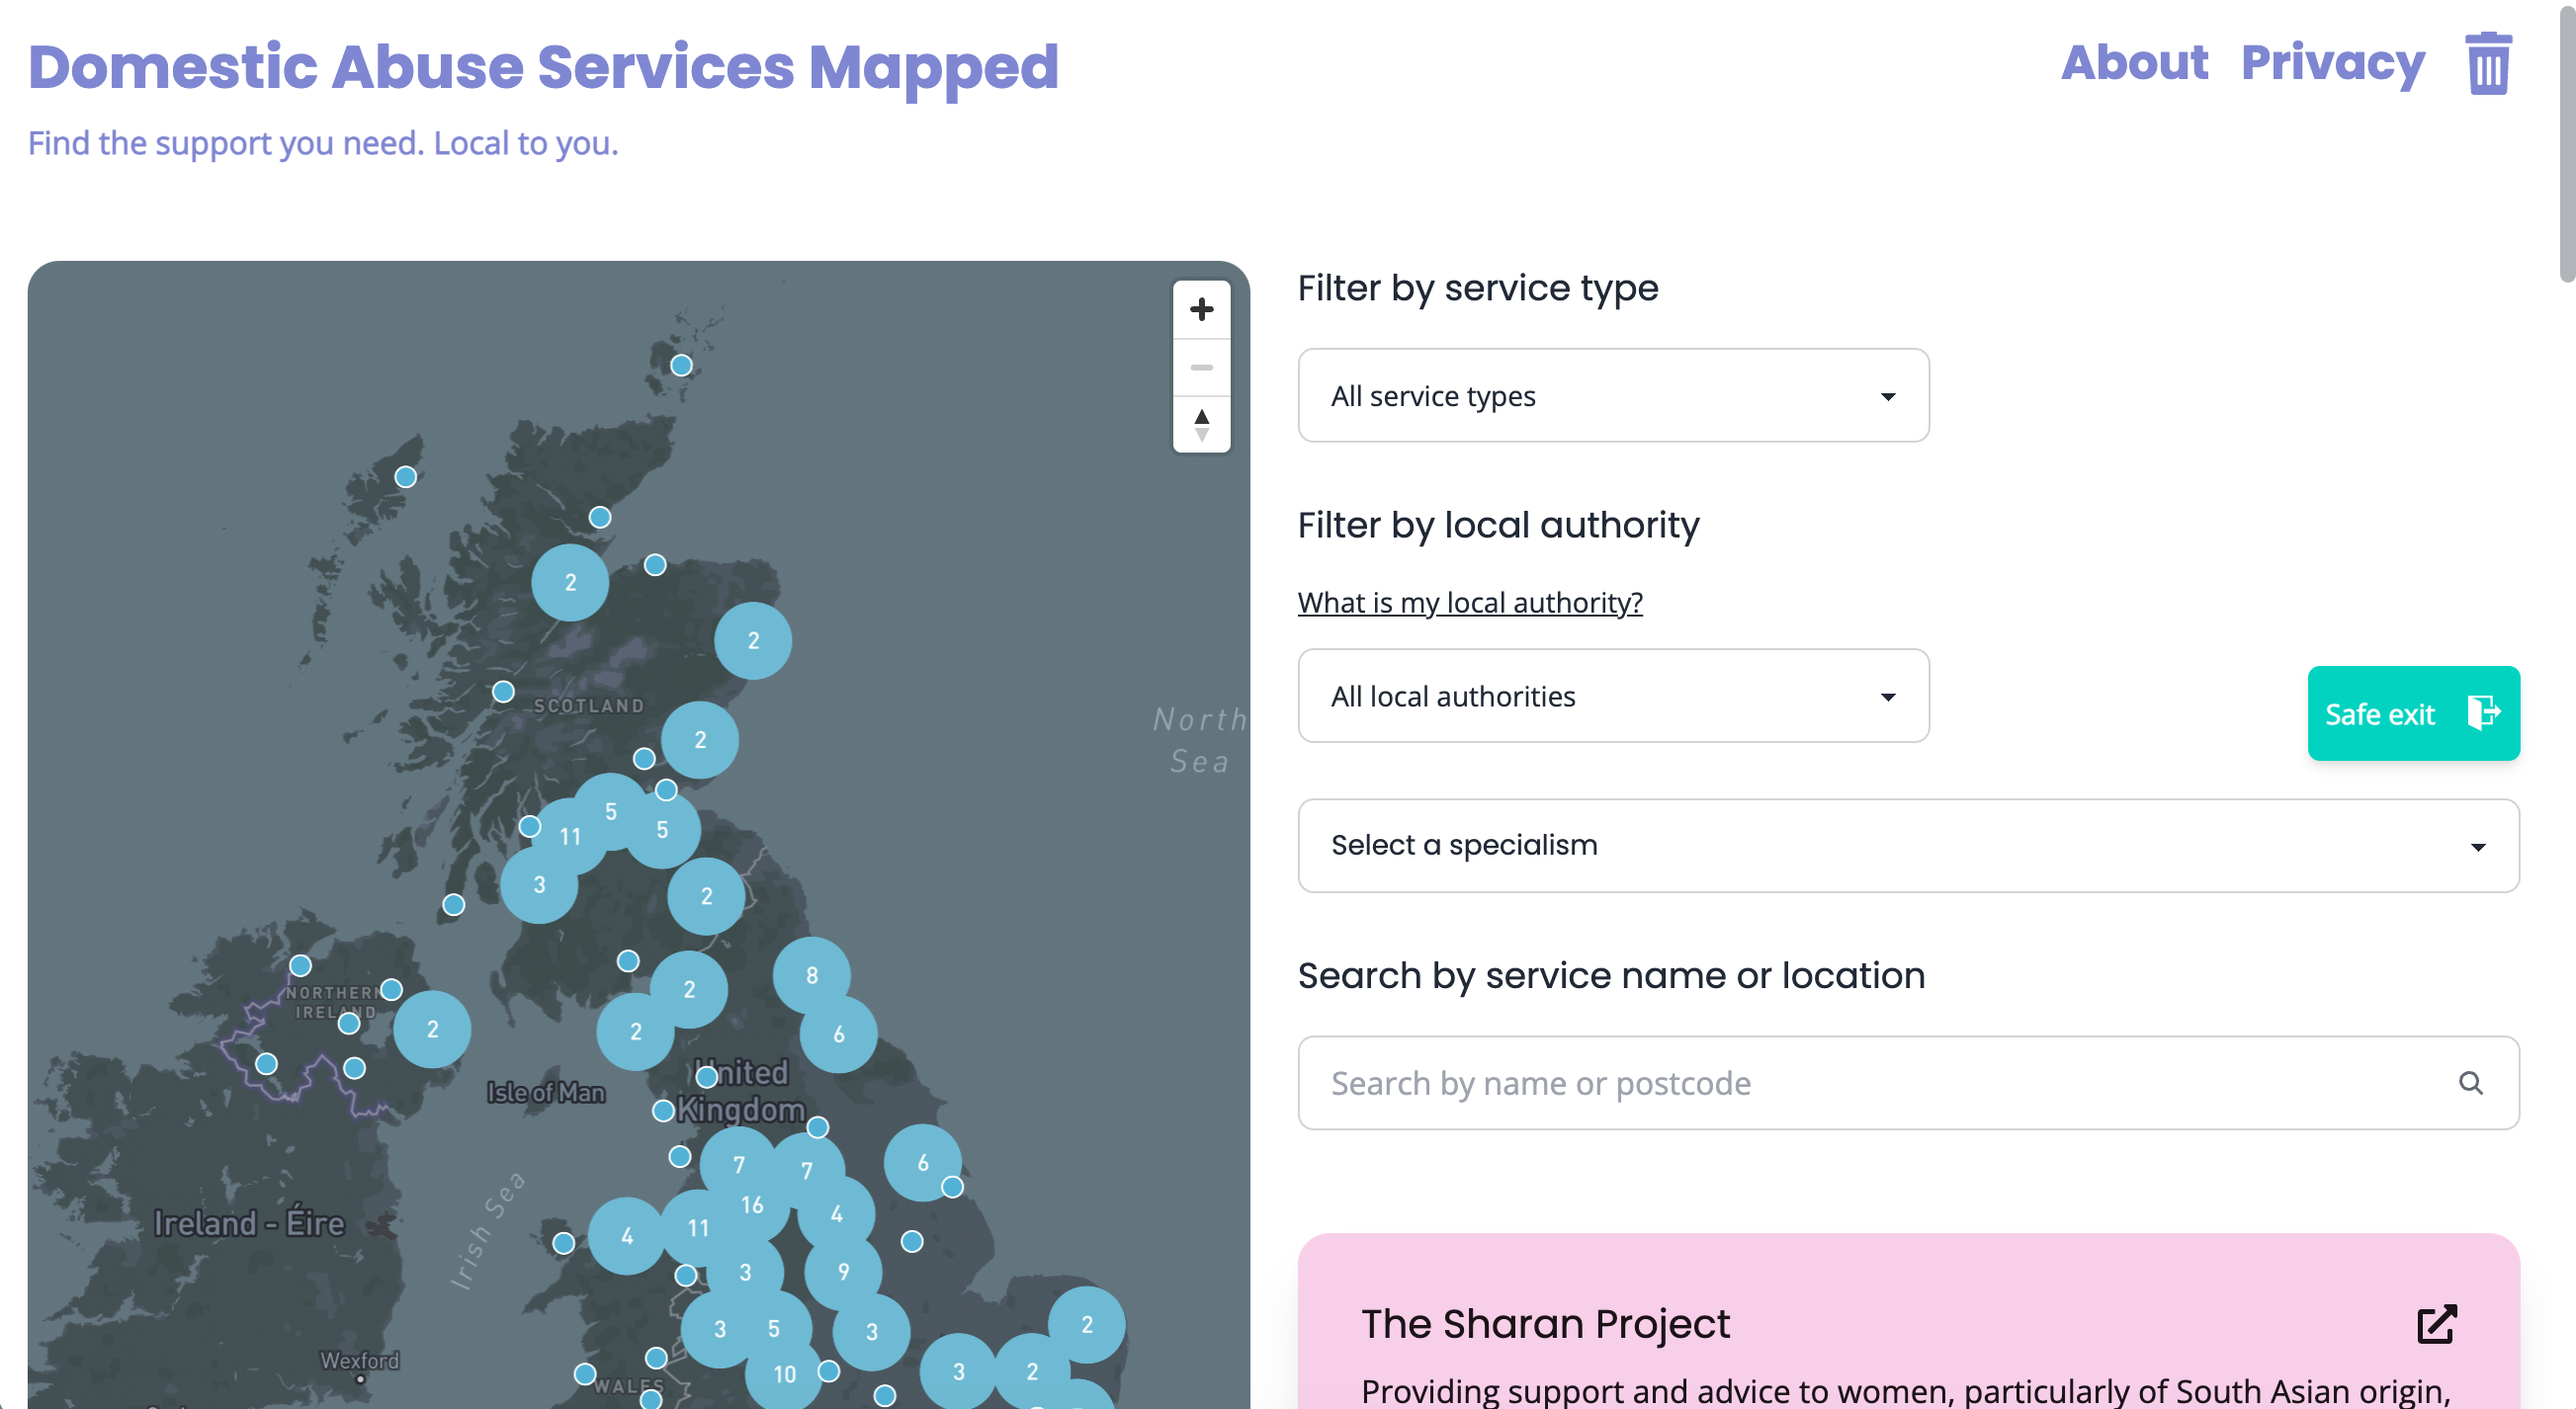
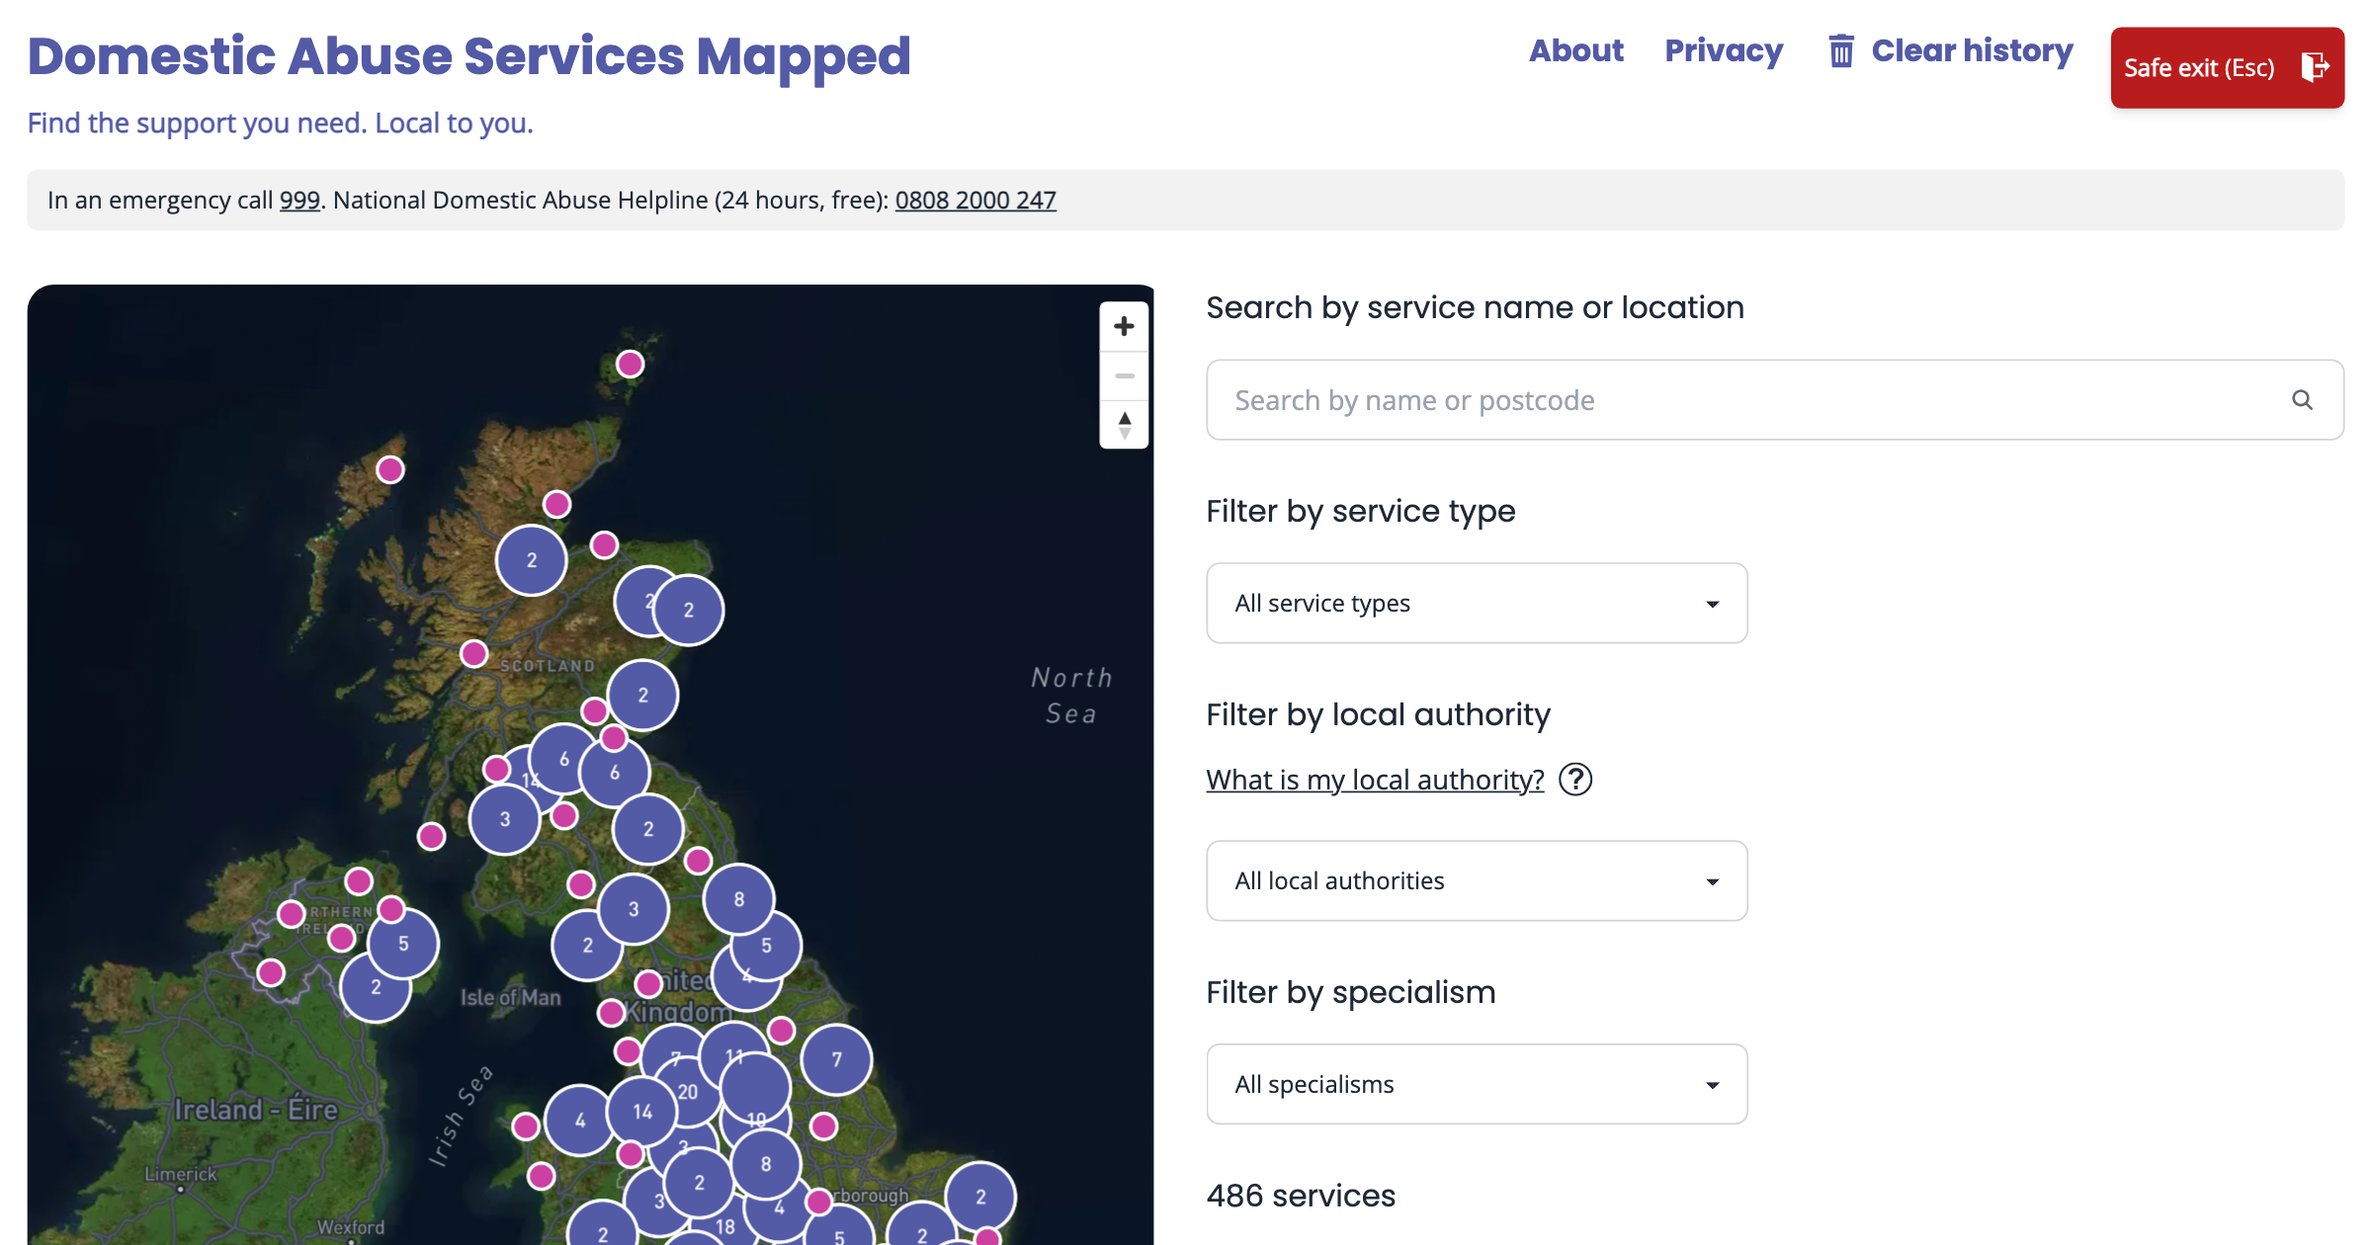
regenerate site preview image

diff --git a/src/app/layout.tsx b/src/app/layout.tsx
@@ -2,9 +2,11 @@ import localFont from '@next/font/local';
 import type { ReactNode } from 'react';
 import React from 'react';
 
+import { SITE_DOMAIN } from './constants/links';
 import { SearchProvider } from './contexts/SearchContext';
 
 interface Metadata {
+  metadataBase: URL;
   title: string;
   description: string;
   icons: {
@@ -24,6 +26,8 @@ interface Metadata {
 }
 
 export const metadata: Metadata = {
+  // Makes og:image an absolute URL; link previews need the full address.
+  metadataBase: new URL(`https://${SITE_DOMAIN}`),
   title: 'Domestic abuse services mapping',
   description: 'A tool for mapping domestic abuse services across the UK.',
   icons: {
@@ -76,25 +80,6 @@ export default function RootLayout({ children }: RootLayoutProps): JSX.Element {
   return (
     <html lang="en">
       <head>
-        <meta property="og:title" content={metadata.openGraph.title} />
-        <meta
-          property="og:description"
-          content={metadata.openGraph.description}
-        />
-        <meta property="og:image" content={metadata.openGraph.images[0].url} />
-        <meta
-          property="og:image:width"
-          content={metadata.openGraph.images[0].width.toString()}
-        />
-        <meta
-          property="og:image:height"
-          content={metadata.openGraph.images[0].height.toString()}
-        />
-        <meta
-          property="og:image:alt"
-          content={metadata.openGraph.images[0].alt}
-        />
-        <meta property="og:type" content={metadata.openGraph.type} />
         <script
           async
           defer
